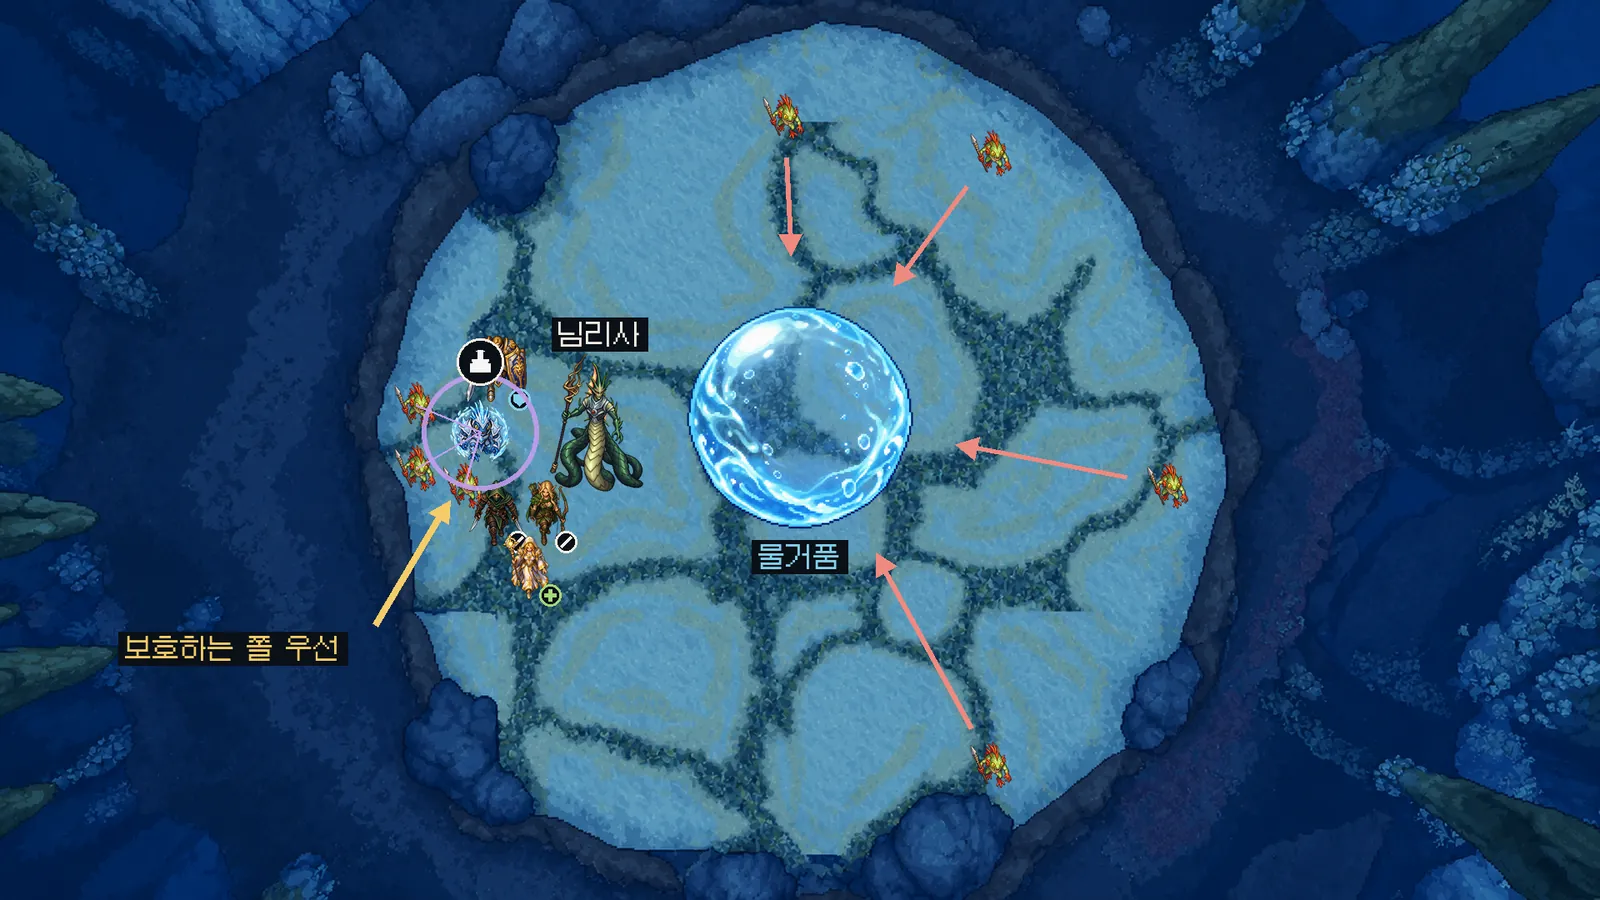
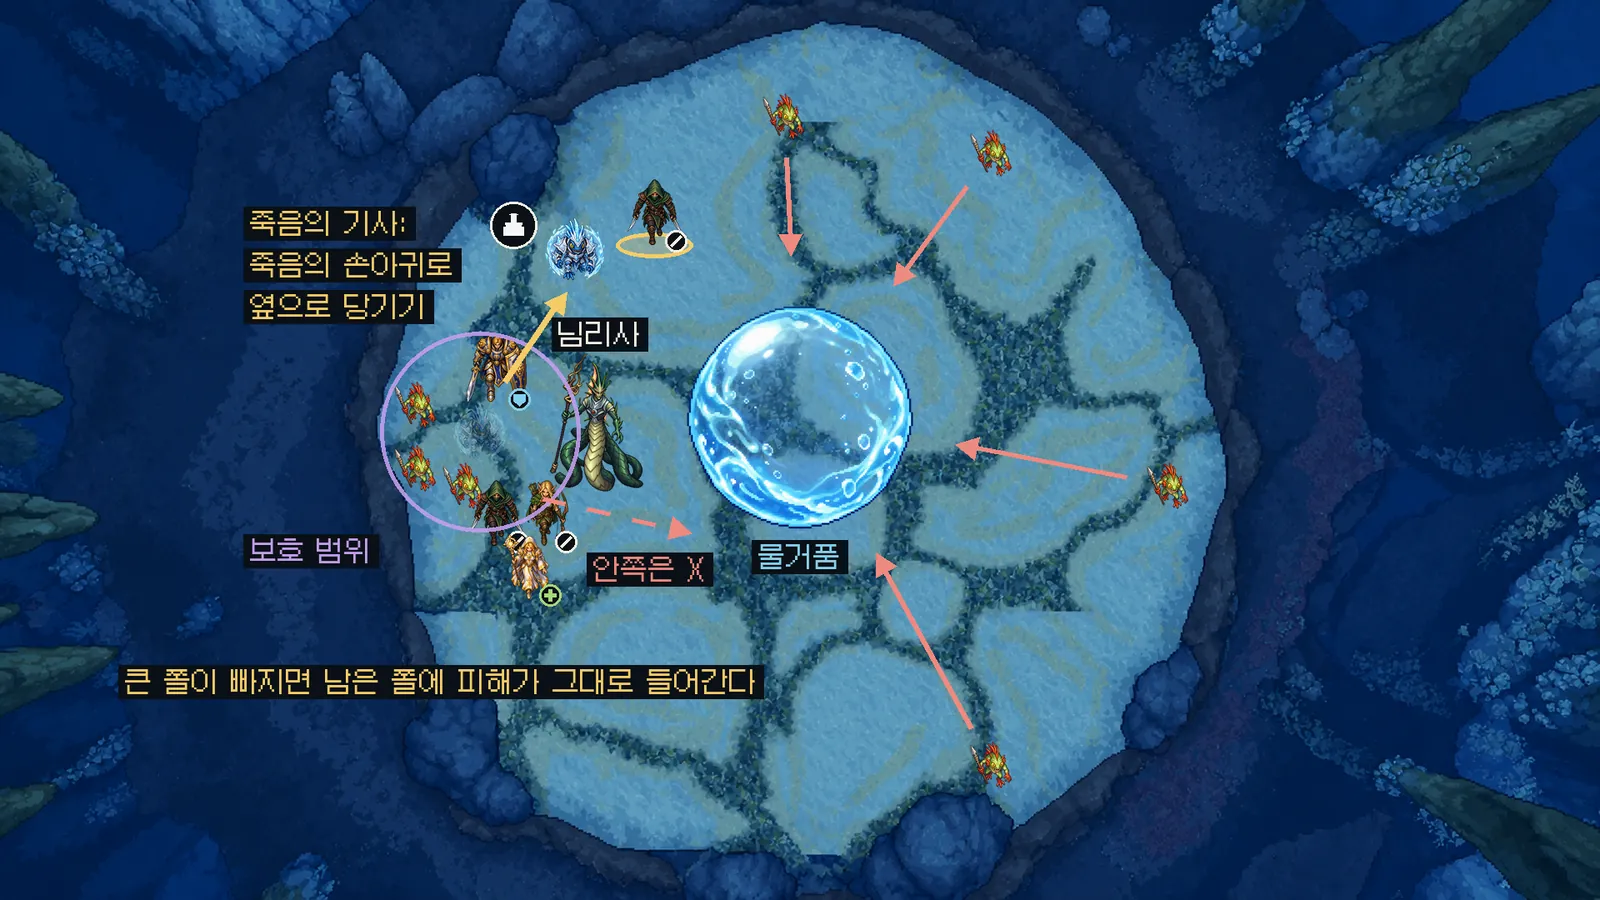
Nymrissa: Death Grip the shield add sideways out of its protection range

Changed region(s): [[0.125, 0.1867, 0.4375, 0.6844], [0.0625, 0.6844, 0.5, 0.7778], [0.3438, 0.56, 0.4688, 0.6533]]

diff --git a/docs/patch-12.1-progress.md b/docs/patch-12.1-progress.md
@@ -1039,3 +1039,9 @@ Devourer Demon Hunter, Arcane Mage, Balance Druid, Devastation Evoker, Mistweave
 - 바꾼 것: `public/robots.txt`(전체 허용, /mockups 제외, 사이트맵 주소), `public/sitemap.xml` 63개 주소(주요 메뉴 7·가이드 40·레이드 편 5·로그 리포트 11, `npm run seo:sitemap`이 만들고 `validate:seo`가 막음), `src/data/siteMeta.js`+`src/components/RouteMeta.js`로 주소마다 제목·설명·canonical·robots·og 태그, `public/index.html` 기본 설명·og 태그. 테스트 `src/data/siteMeta.test.js`.
 - 서치 콘솔: 사용자 승인 후 크롬(sunwait777 계정)에서 URL 접두어 속성 `https://wowmeta.vercel.app/`을 추가하고 HTML 파일(`public/google2591626ad1cc3f8d.html`)로 소유권을 확인했다. sitemap.xml을 제출했고(제출 직후 상태는 '가져올 수 없음' — 서버는 Googlebot에게 200 application/xml로 줌), 홈 주소 색인 생성을 요청했다.
 - 배포: 사이트 `022525ef` main 푸시. 정리 빌드 `main.44471181.js`(소스맵 0, `artifacts/seo-20261022/stage-deploy.cjs`)를 `vercel deploy --prebuilt --prod`로 올렸다(확인 파일 넣고 한 번 더). 운영에서 robots.txt 200 text/plain, sitemap.xml 200 application/xml, 확인 파일 200, 소스맵 403이고, `artifacts/seo-20261022/check-meta.cjs`를 운영 주소로 돌려 6개 페이지 제목·canonical이 맞았다.
+
+## 2026-10-22 · 님리사 보호막 쫄은 옆으로 당기기
+
+- 요청: "님리사 같은 경우는 죽음의 기사가 큰 쫄을 보호범위 밖으로(안쪽이 아니라 시계나 반시계 방향으로) 죽음의 손을 쓰는 택틱이 대중적이야". 큰 쫄은 주변 쫄의 피해를 99% 줄이는 신화 보호막 쫄로 보고 적었다.
+- KB `raid-guide.json` 님리사: 원리 문구, 요약, 확인 항목 2번, '신화 큰 쫄은 옆으로 당기기' 단계(근거 메모 포함), 딜러 팁, 선택지 '보호막 쫄 처리'(기본: 옆으로 당기기 · 다른 안: raidstrats의 무리 안에서 먼저 잡기)를 고쳤다. 단계 69개·팁 108개는 그대로다.
+- 그림: 스토리보드 `plan.py`의 `shield-add` 컷(02-nymrissa-03)을 보호 범위 원·시계 방향 링 위 죽음의 기사·당기는 화살표·'안쪽은 X'로 다시 그리고 `raid-planner-20261022/raid-images.py`로 WebP 2장만 바뀌었다. 스토리보드 `content.py`·`tips.py`·`timeline/segments/nymrissa.json`도 맞추고 님리사 영상만 다시 만들었다(예전 판 `video/02-nymrissa-nymrissa.before-grip-20261022.mp4`).
